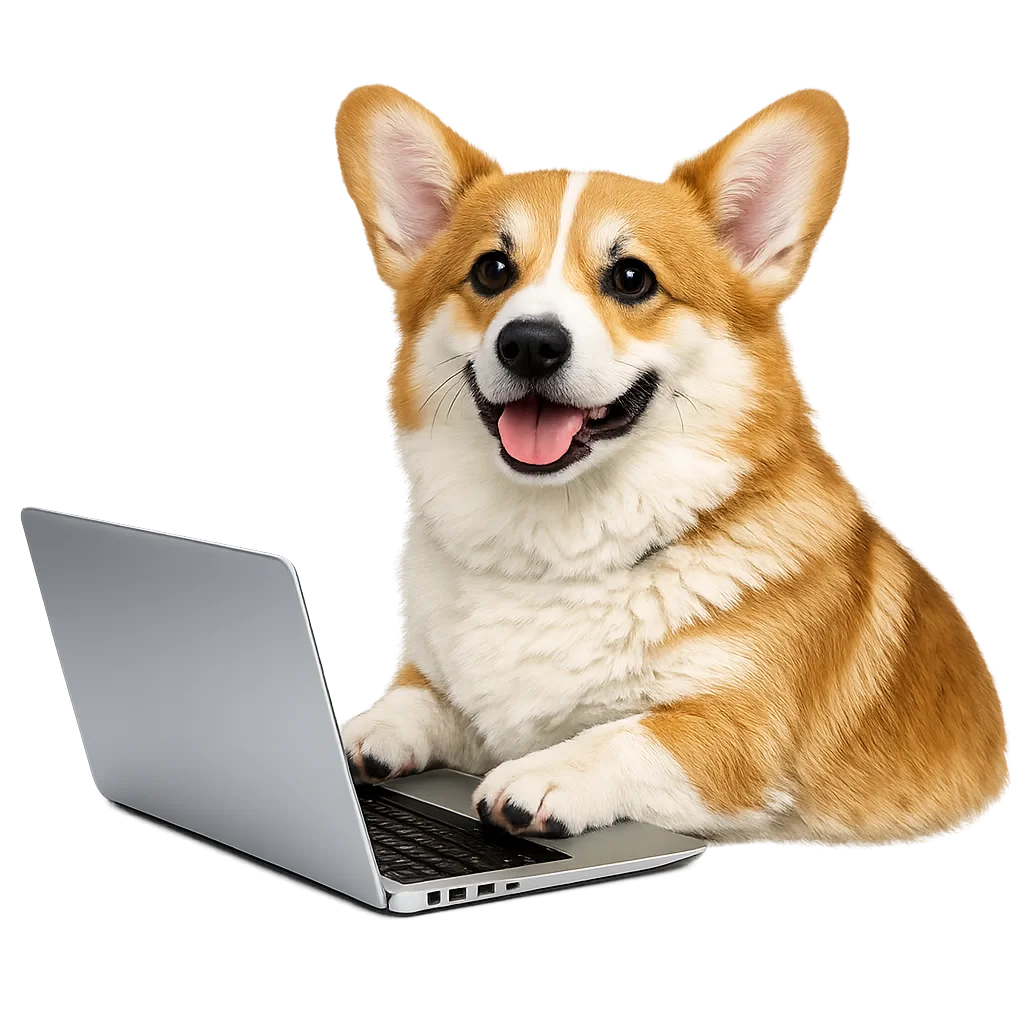
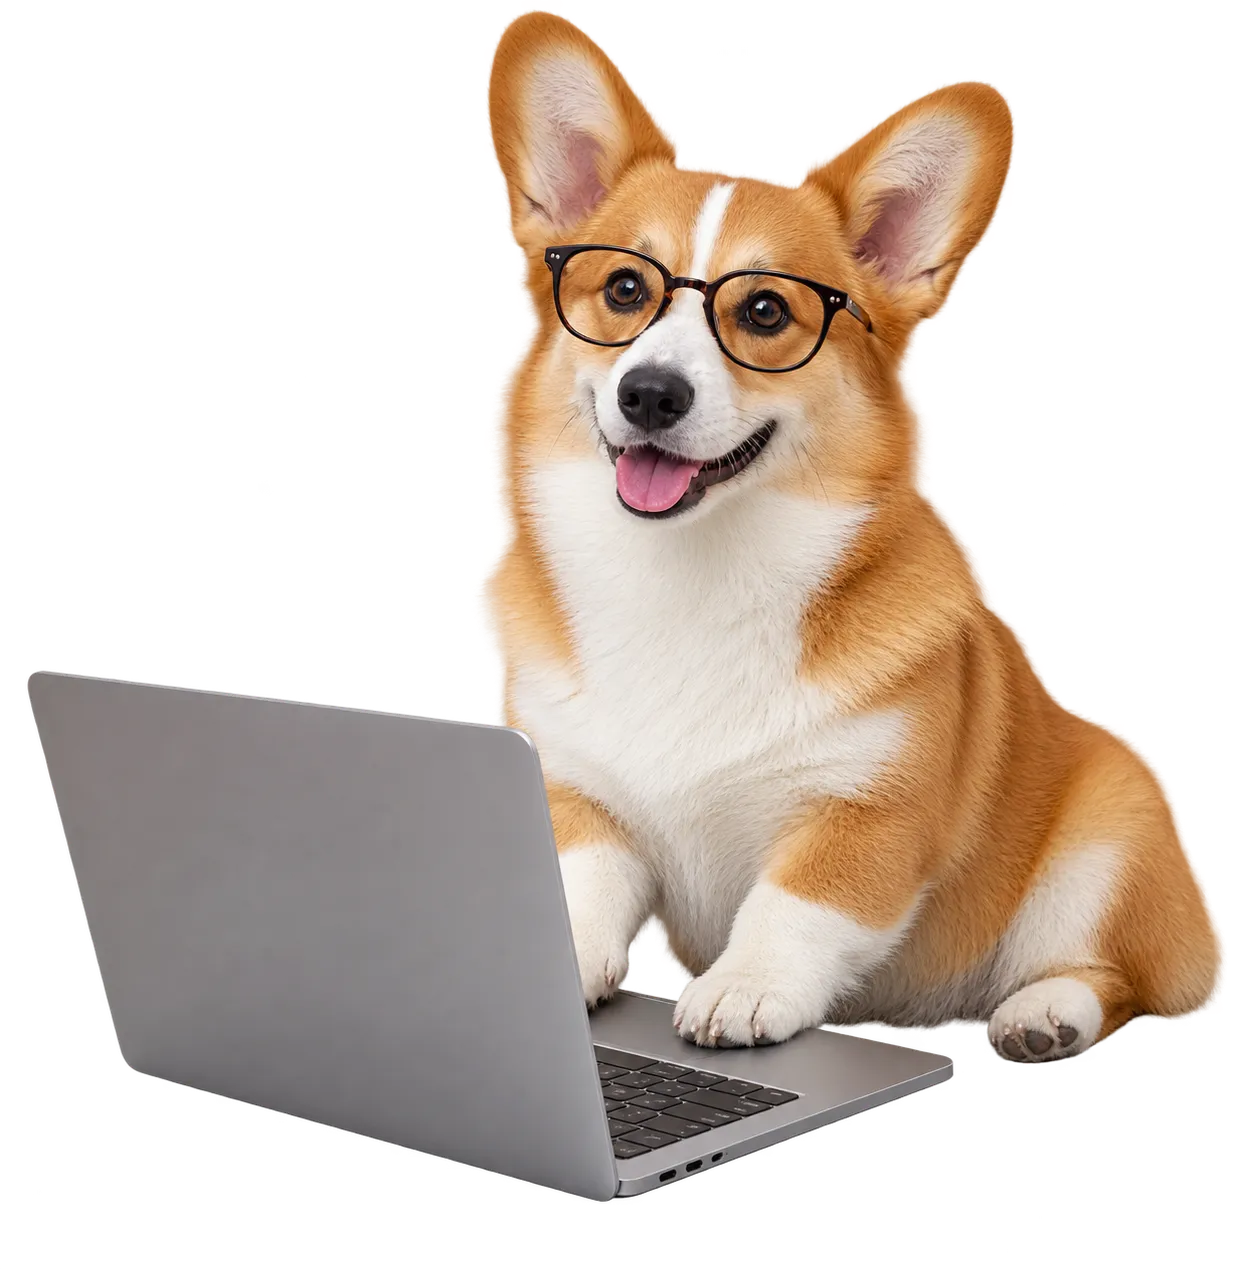
add more images

diff --git a/src/constants.ts b/src/constants.ts
@@ -1,11 +1,18 @@
 import blepCorgi from './assets/blep-corgi.webp';
 import chillaxCorgi from './assets/ChillaxCorgi.webp';
 import cuteCorgi from './assets/cute-corgi.webp';
-import dabbingCorgi from './assets/dabbing-corgi.webp';
+import dabCorgi1 from './assets/dab-corgi-1.webp';
+import dabCorgi2 from './assets/dab-corgi-2.webp';
+import dabCorgi3 from './assets/dab-corgi-3.webp';
 import laptopCorgi from './assets/laptop-corgi.webp';
+import officeCorgi1 from './assets/office-corgi-1.webp';
+import officeCorgi2 from './assets/office-corgi-2.webp';
+import officeCorgi3 from './assets/office-corgi-3.webp';
+import officeCorgi4 from './assets/office-corgi-4.webp';
+import officeCorgi5 from './assets/office-corgi-5.webp';
+import officeCorgi6 from './assets/office-corgi-6.webp';
 import fatAssCorgi from './assets/phatasscorgi.webp';
 import runningCorgi from './assets/running-corgi.webp';
-import sadCorgi from './assets/sad-corgi.webp';
 
 export const ESTIMATION_HOURS = Array.from(
 	{ length: 40 },
@@ -55,25 +62,88 @@ export const CORGI_IMAGES = [
 	{
 		id: 'laptop-corgi',
 		src: laptopCorgi,
-		alt: 'A corgi sitting in front of a laptop',
+		alt: 'A smiling corgi wearing glasses and using a laptop',
 		attribution: {
 			name: 'generated with ChatGPT',
 			href: 'https://chatgpt.com',
 		},
 	},
 	{
-		id: 'sad-corgi',
-		src: sadCorgi,
-		alt: 'A corgi sitting at a desk looking at a monitor',
+		id: 'office-corgi-1',
+		src: officeCorgi1,
+		alt: 'A corgi standing on a conference room table',
 		attribution: {
 			name: 'generated with ChatGPT',
 			href: 'https://chatgpt.com',
 		},
 	},
 	{
-		id: 'dabbing-corgi',
-		src: dabbingCorgi,
-		alt: 'A corgi dabbing',
+		id: 'office-corgi-2',
+		src: officeCorgi2,
+		alt: 'A corgi working on a laptop in an office',
+		attribution: {
+			name: 'generated with ChatGPT',
+			href: 'https://chatgpt.com',
+		},
+	},
+	{
+		id: 'office-corgi-3',
+		src: officeCorgi3,
+		alt: 'A corgi reviewing color swatches at a desk',
+		attribution: {
+			name: 'generated with ChatGPT',
+			href: 'https://chatgpt.com',
+		},
+	},
+	{
+		id: 'office-corgi-4',
+		src: officeCorgi4,
+		alt: 'A corgi presenting charts in a boardroom',
+		attribution: {
+			name: 'generated with ChatGPT',
+			href: 'https://chatgpt.com',
+		},
+	},
+	{
+		id: 'office-corgi-5',
+		src: officeCorgi5,
+		alt: 'A corgi monitoring dashboards in a control room',
+		attribution: {
+			name: 'generated with ChatGPT',
+			href: 'https://chatgpt.com',
+		},
+	},
+	{
+		id: 'office-corgi-6',
+		src: officeCorgi6,
+		alt: 'A corgi working at multiple monitors in a server room',
+		attribution: {
+			name: 'generated with ChatGPT',
+			href: 'https://chatgpt.com',
+		},
+	},
+	{
+		id: 'dab-corgi-1',
+		src: dabCorgi1,
+		alt: 'A corgi dabbing in a modern office lobby',
+		attribution: {
+			name: 'generated with ChatGPT',
+			href: 'https://chatgpt.com',
+		},
+	},
+	{
+		id: 'dab-corgi-2',
+		src: dabCorgi2,
+		alt: 'A corgi in a vest dabbing in a conference room',
+		attribution: {
+			name: 'generated with ChatGPT',
+			href: 'https://chatgpt.com',
+		},
+	},
+	{
+		id: 'dab-corgi-3',
+		src: dabCorgi3,
+		alt: 'A corgi dabbing in a high-tech control room',
 		attribution: {
 			name: 'generated with ChatGPT',
 			href: 'https://chatgpt.com',
